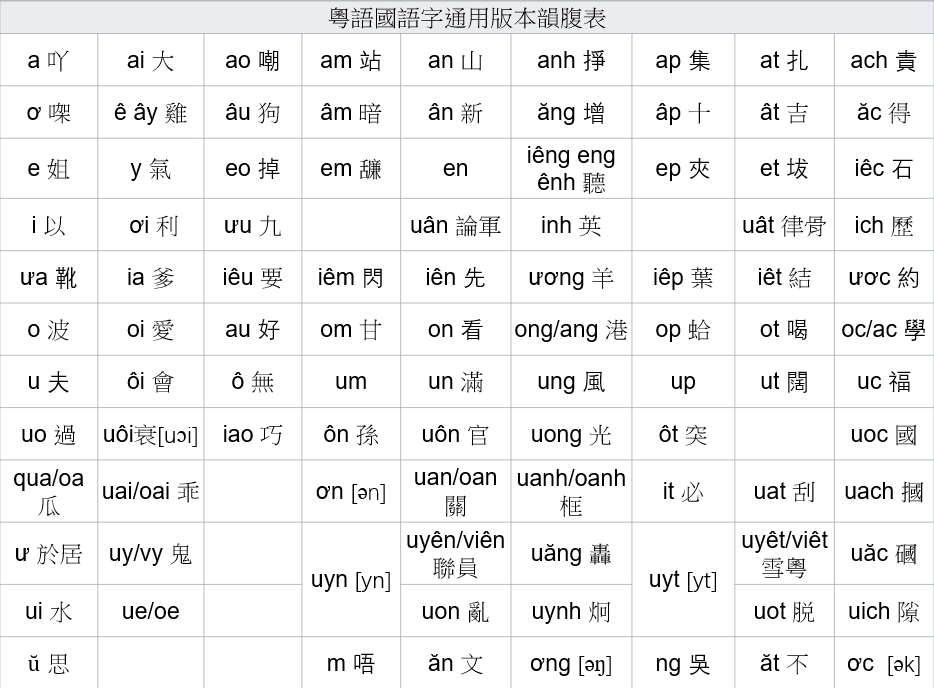
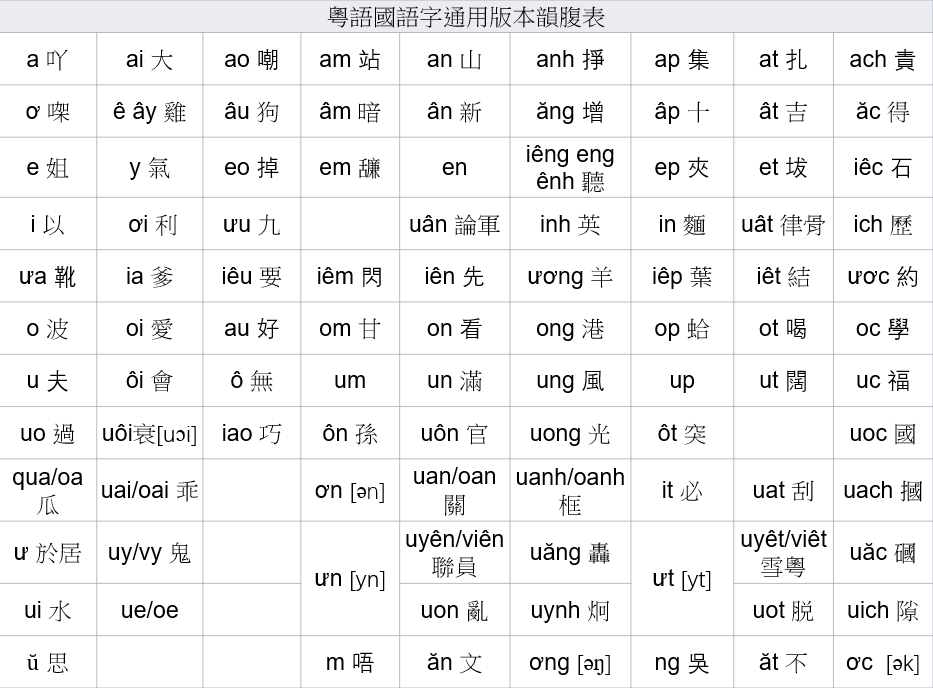
Add files via upload

diff --git a/release/c/cantonese_telex/source/welcome.htm b/release/c/cantonese_telex/source/welcome.htm
@@ -560,8 +560,8 @@
     <p>"ơng" represents [əŋ]，"ơc" represents [ək]</p>
     <p>"ơn"用嚟表示[ən]</p>
     <p>"ơn" represents [ən]</p>
-  <p>"uyn"用嚟表示[yn]，"uyt"用嚟表示[yt]</p>
-  <p>"uyn" represents [yn]，"uyt" represents [yt]</p>
+  <p>"ưn"用嚟表示[yn]，"ưt"用嚟表示[yt]</p>
+  <p>"ưn" represents [yn]，"ưt" represents [yt]</p>
   <p>"uôi"用嚟表示[uɔi] [uəi]</p>
     <p>"uôi" represents [uɔi] and [uəi]</p>
  <p>韻尾字母k同韻尾字母c ch嘅作用一樣</p>
